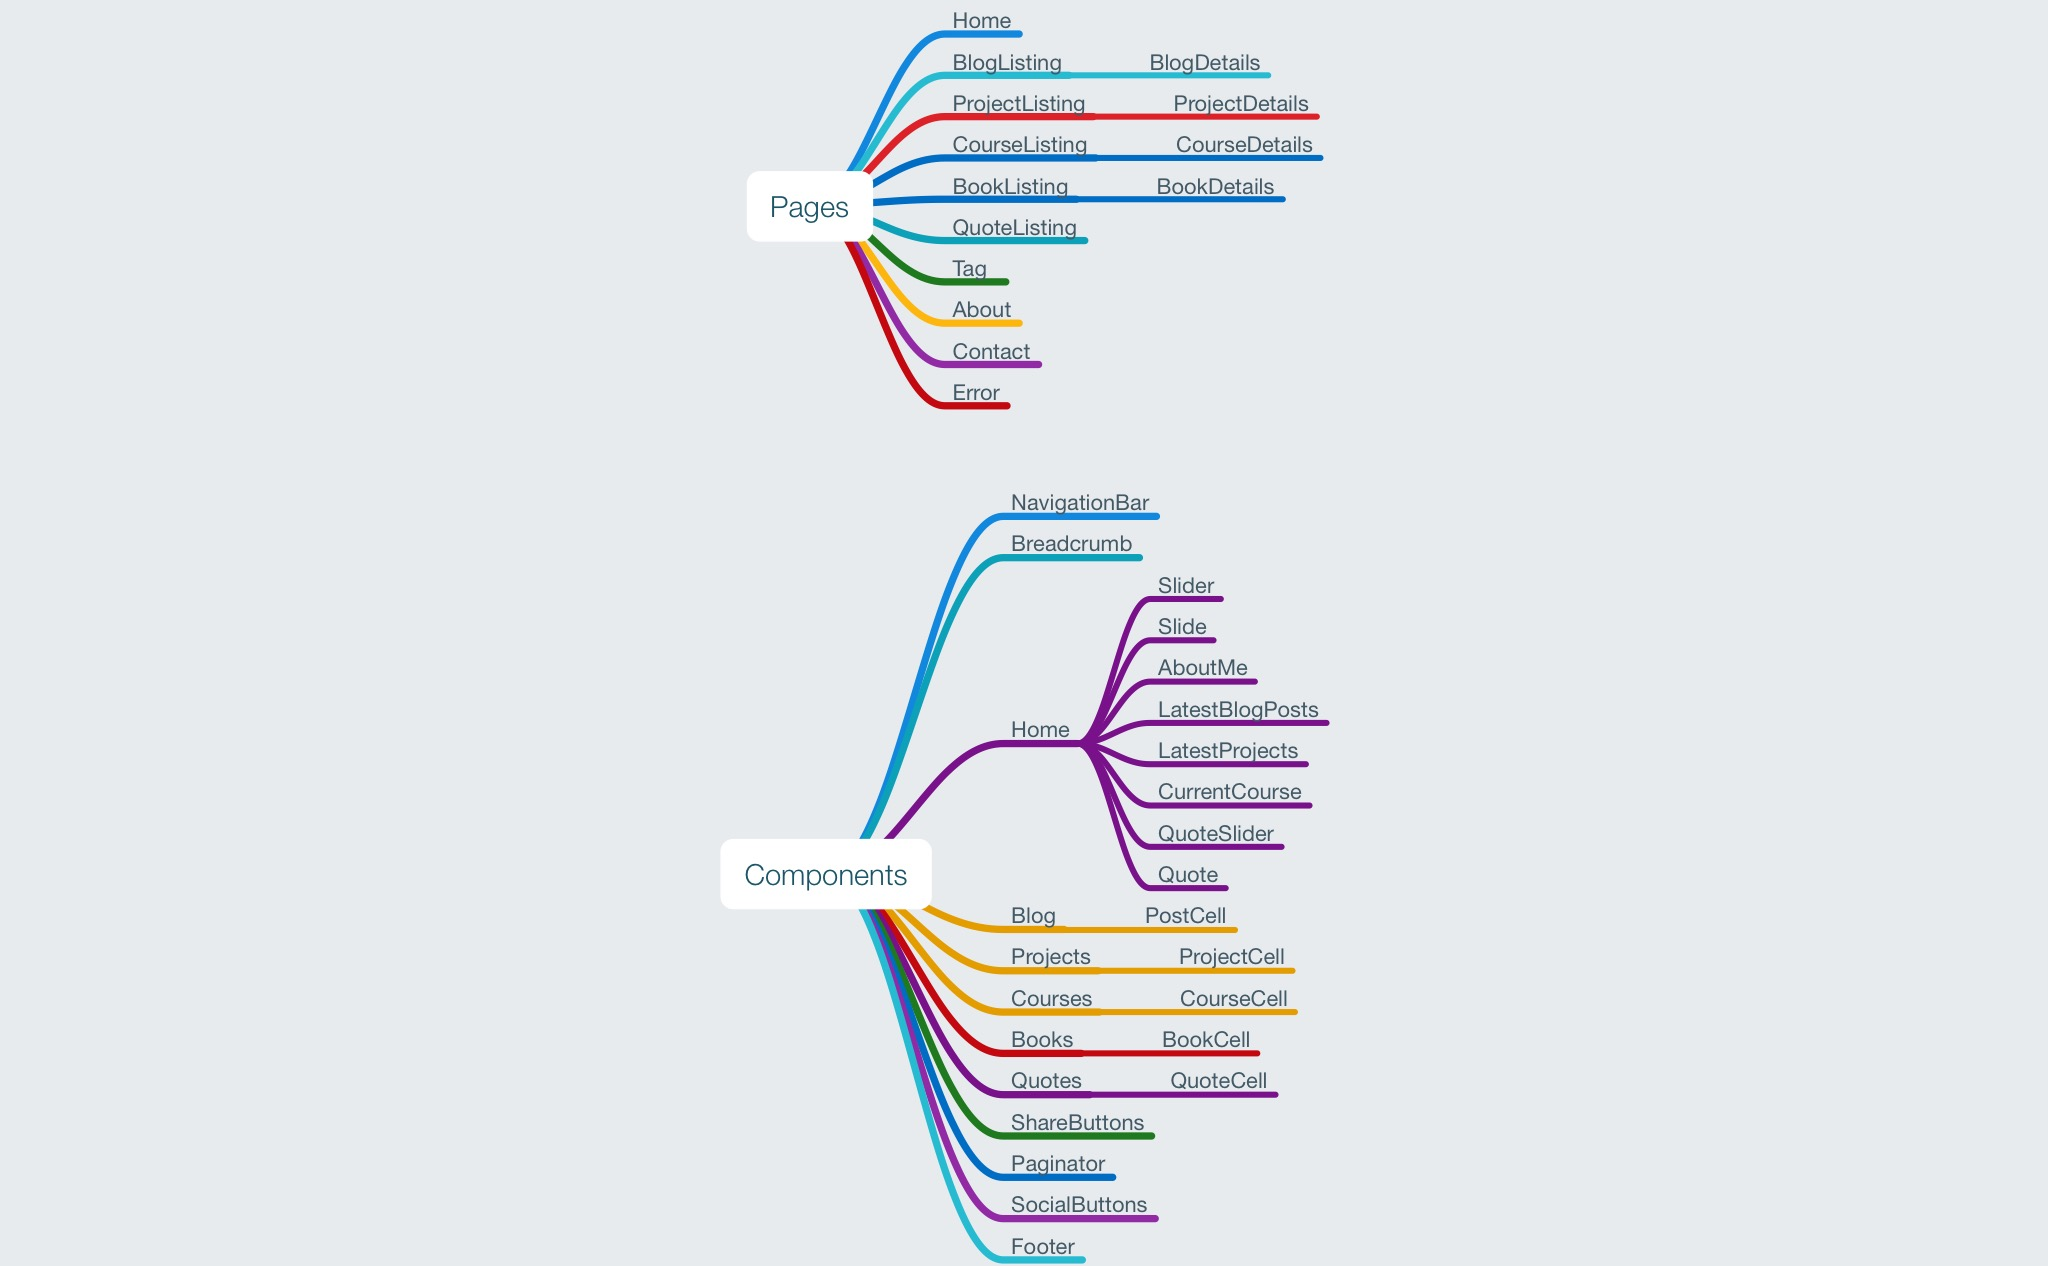
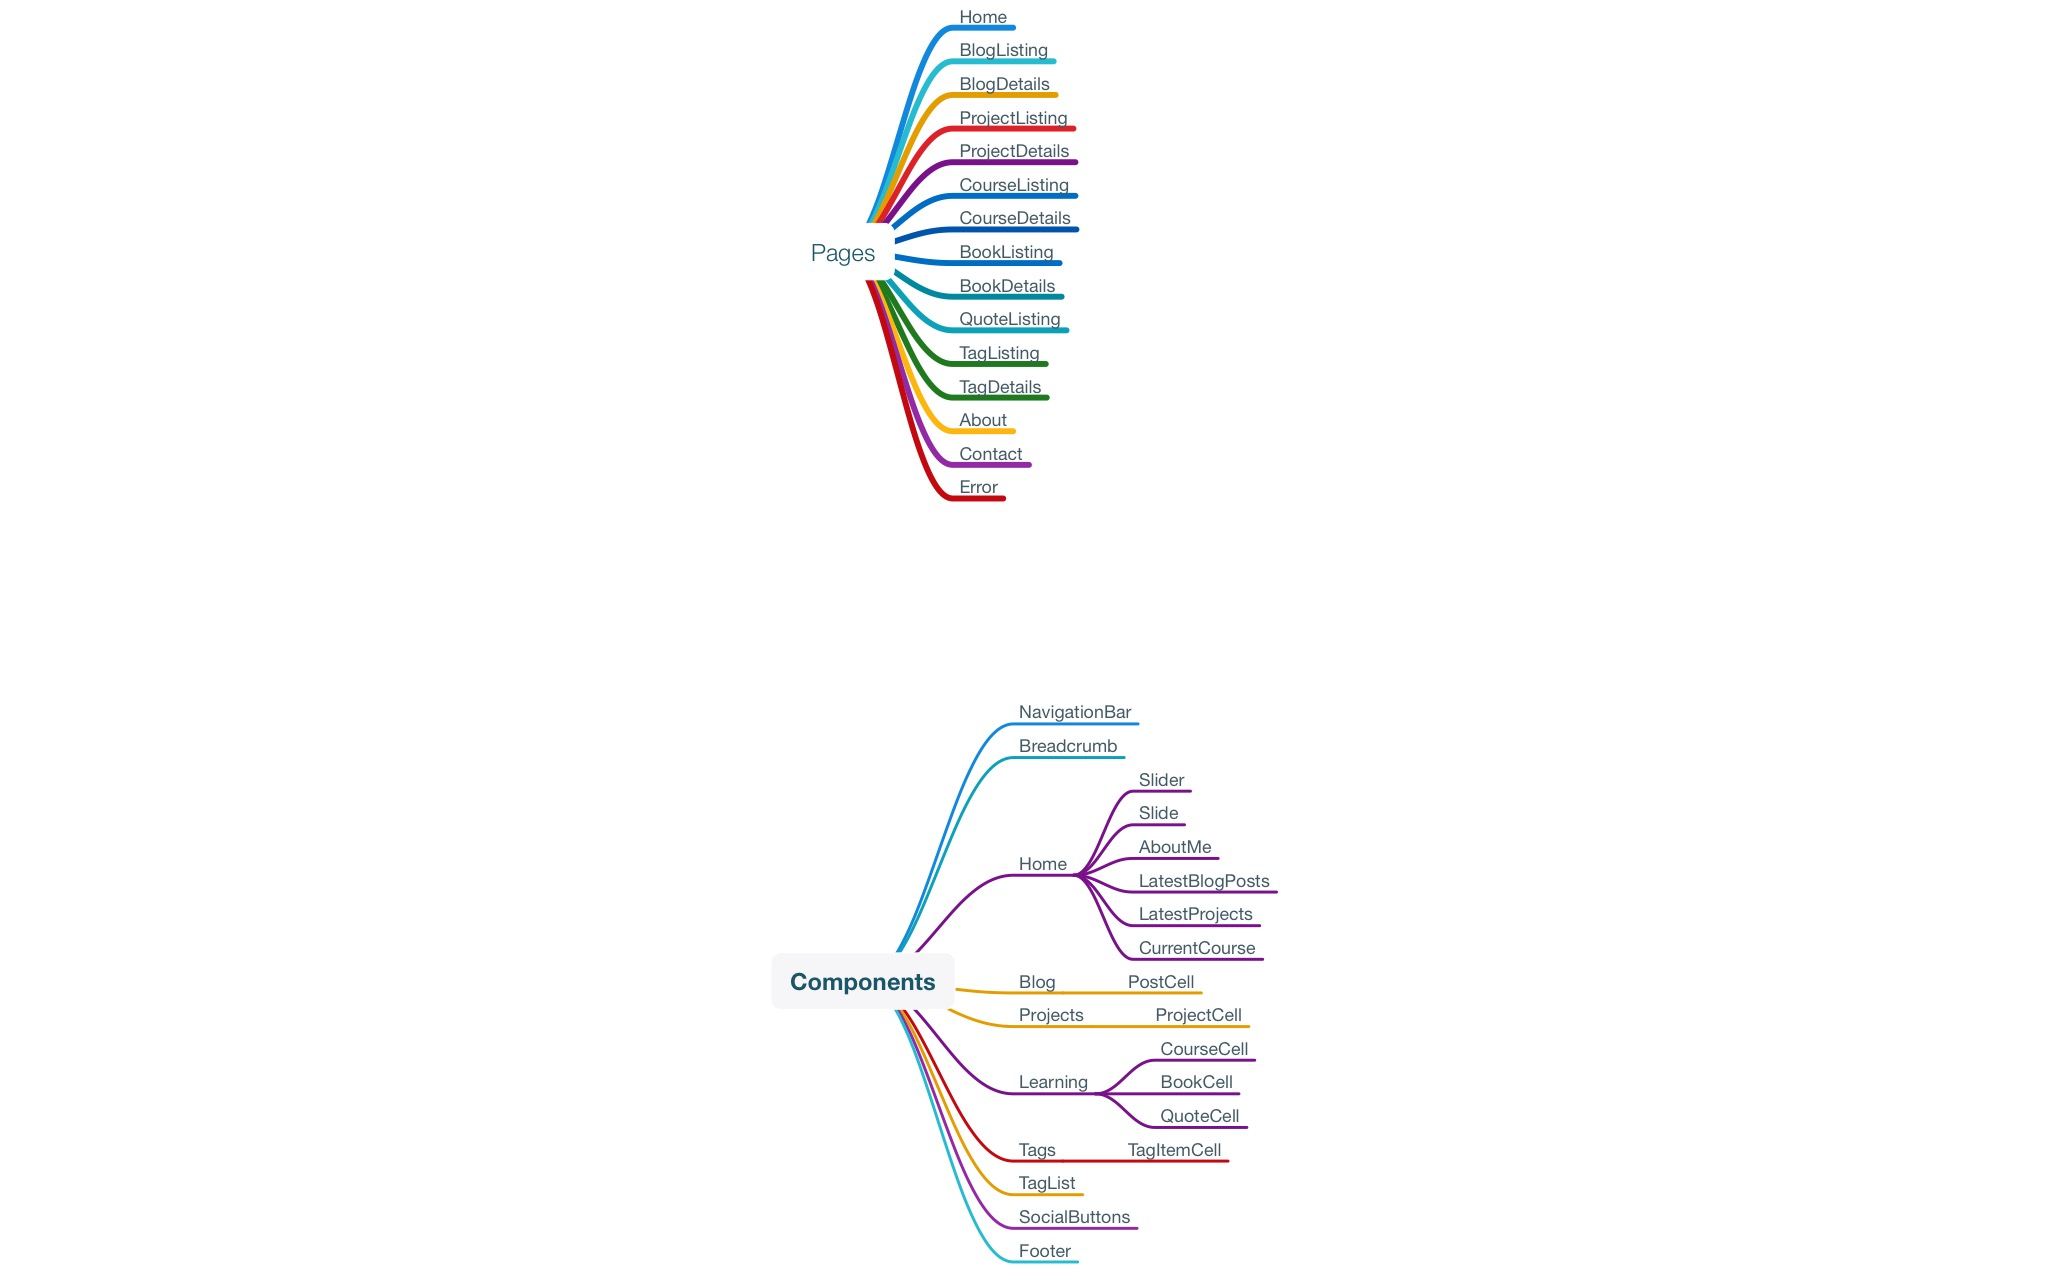
Update README

Changed region(s): [[0.375, 0.0, 0.6562, 1.0]]

diff --git a/react/README.md b/react/README.md
@@ -1,19 +1,73 @@
-# omaralbeik.com
-Source code for my own website :)
+![omaralbeik.com client logo](https://github.com/omaralbeik/omaralbeik.com/blob/master/react/assets/logo_client.png)
+
+# omaralbeik.com | Web Client
+Single page web application with React and Redux.
+
+## Main Features
+
+- Single page application using React.
+- Client-side routing using React router.
+- State management using Redux.
+- Fully responsive design with the help of Bootstrap.
+
+### Pages
+- Home
+- BlogListing
+- BlogDetails
+- ProjectListing
+- ProjectDetails
+- CourseListing
+- CourseDetails
+- BookListing
+- BookDetails
+- TagListing
+- TagDetails
+- About
+- Contact
+- Error
+
+### React Components structure
+![React Components structure](https://github.com/omaralbeik/omaralbeik.com/blob/master/react/assets/react_components.png)
 
 
-## React Setup
+## Before Starting
+- Make sure Django local server is running before starting the React application. [more info](https://github.com/omaralbeik/omaralbeik.com/blob/master/django/README.md)
+- Replace `API_AUTH_TOKEN` in [**data/constants.js**](https://github.com/omaralbeik/omaralbeik.com/blob/master/react/src/data/constants.js) with the one you created from Django admin.
 
-0. Make sure Django local server is running before starting the React application. [more info](https://github.com/omaralbeik/omaralbeik.com/tree/django/django)
 
-1. This app requires npm to build, if Node and npm are not installed on your device, you should install them first [more info here](https://docs.npmjs.com/getting-started/installing-node)
+## Running Instructions
 
+### React Setup
+1. This app requires **npm** to build, if **Node** and **npm** are not installed on your device, you should install them first [more info here](https://docs.npmjs.com/getting-started/installing-node)
 2. Move to project directory and install required npm packages
 ``` bash
 npm i
 ```
 
-3. Run React server
+### Start React development server
+Run React server
 ```bash
 npm run start
 ```
+
+### Create a production build
+To create a production build, use:
+```bash
+npm run build
+```
+
+## Make it yours!
+- Customize website look and feel by changing [**app.css**](https://github.com/omaralbeik/omaralbeik.com/blob/master/react/src/styles/app.css).
+- Change the language or localize the app by updating [**strings/index.js**](https://github.com/omaralbeik/omaralbeik.com/blob/master/react/src/strings/index.js).
+- Update social links in [**social-links/index.js**](https://github.com/omaralbeik/omaralbeik.com/blob/master/react/src/social-links/index.js).
+- Add your email in [**data/constants.js**](https://github.com/omaralbeik/omaralbeik.com/blob/master/react/src/data/constants.js).
+- Add your Google Analytics tracking code in [**public/index.html**](https://github.com/omaralbeik/omaralbeik.com/blob/master/react/public/index.html).
+
+## Dependencies
+This project is built using React JS, Redux and other dependencies.
+
+Complete list of 3rd party dependencies can be found in [**package.json**](https://github.com/omaralbeik/omaralbeik.com/blob/master/react/package.json)
+
+
+## Get involved
+Your feedback is always appreciated and welcomed. If you find a bug in the source code or a mistake in the documentation, you can help me by submitting an issue [**here**](https://github.com/omaralbeik/omaralbeik.com/issues). Even better you can submit a Pull Request with a fix :)
